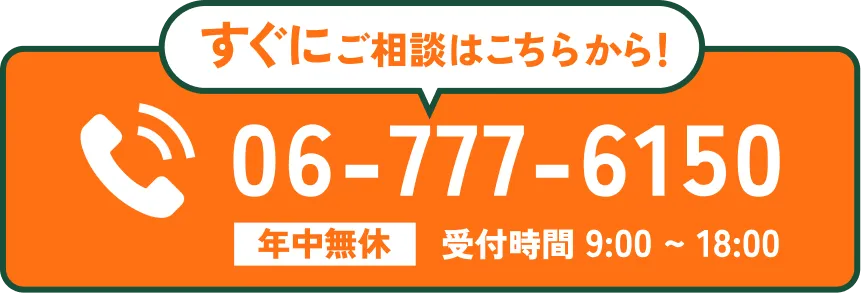
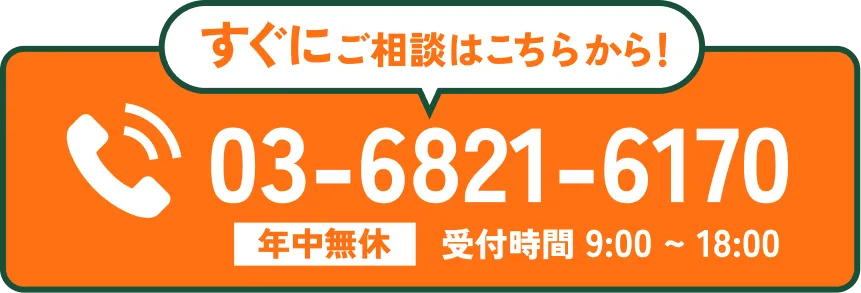
LP文言・画像を修正

Changed region(s): [[0.0604, 0.3379, 0.9361, 0.7679]]

diff --git a/index.html b/index.html
@@ -3,7 +3,7 @@
 <head>
     <meta charset="UTF-8">
     <meta name="viewport" content="width=device-width, initial-scale=1.0">
-    <title>〇〇｜関西で高額買取！出張買取専門</title>
+    <title>出張買取エコシカ｜関東で高額買取！出張買取専門</title>
     <link rel="stylesheet" href="css/style.css">
     <link rel="preconnect" href="https://fonts.googleapis.com">
     <link rel="preconnect" href="https://fonts.gstatic.com" crossorigin>
@@ -16,10 +16,10 @@
         ---------------------------->
         <div class="header">
             <div class="header_left">
-                <a href="/"><img src="./images/head_logo.webp" alt="全部買取対応｜出張費・査定費0円の無料買取サービス【30％UPキャンペーン中】"></a>
+                <a href="/"><img src="./images/ecoshika-logo.webp" alt="全部買取対応｜出張費・査定費0円の無料買取サービス【30％UPキャンペーン中】"></a>
             </div><!-- / .header_left -->
             <div class="header_right">
-                <a href="tel:ダミー" class="tel"><img src="./images/head_tel.webp" alt="電話で問い合わせ"></a>
+                <a href="tel:03-6821-6170" class="tel"><img src="./images/head_tel.webp" alt="電話で問い合わせ"></a>
                 <a href="https://lin.ee/ダミー" class="line"><img src="./images/head_line.webp" alt="LINEで査定"></a>
             </div>
         </div>
@@ -118,7 +118,7 @@
 
             <!-- タイトル画像 -->
             <div class="problem-coupon-title mt-20">
-                <h2><img src="./images/problem_fukidashi.webp" alt="そんなお悩みの方には〇〇にすべてお任せ！"></h2>
+                <h2><img src="./images/problem_fukidashi.webp" alt="そんなお悩みの方には出張買取エコシカにすべてお任せ！"></h2>
             </div>
             <div class="coupon">
                 <img src="./images/problem_cupon.webp" alt="WEB限定キャンペーン｜このページを見た！で査定額より30％UP">
@@ -182,7 +182,7 @@
                 <!-- CTAボタン -->
                 <div class="ctas">
                     <div class="ctas-item mb-14">
-                        <a href="tel:ダミー" class="tel"><img src="./images/cta_tel.webp" alt="すぐにご相談はこちらから！電話で問い合わせ"></a>
+                        <a href="tel:03-6821-6170" class="tel"><img src="./images/cta_tel.webp" alt="すぐにご相談はこちらから！電話で問い合わせ"></a>
                     </div>
                     <div class="ctas-item">
                         <a href="tel:ダミー" class="line"><img src="./images/cta_line.webp" alt="24時間365日受付｜lineで予約受付"></a>
@@ -200,6 +200,10 @@
         <section class="point p-20 py-40">
             <!-- お悩み一覧 -->
             <div class="points">
+                <!-- タイトル画像 -->
+                <div class="point-title mb-20 t_center">
+                    <h2><img src="./images/point_title.webp" alt="出張買取エコシカが選ばれる5つの理由"></h2>
+                </div>
                 <div class="points-item mt-20">
                     <img src="./images/point_01.webp" alt="追加料金ゼロ！完全無料サービス">
                     <p class="point-text">
@@ -258,7 +262,7 @@
                 <!-- CTAボタン -->
                 <div class="ctas">
                     <div class="ctas-item mb-14">
-                        <a href="tel:ダミー" class="tel"><img src="./images/cta_tel.webp" alt="すぐにご相談はこちらから！電話で問い合わせ"></a>
+                        <a href="tel:03-6821-6170" class="tel"><img src="./images/cta_tel.webp" alt="すぐにご相談はこちらから！電話で問い合わせ"></a>
                     </div>
                     <div class="ctas-item">
                         <a href="tel:ダミー" class="line"><img src="./images/cta_line.webp" alt="24時間365日受付｜lineで予約受付"></a>
@@ -488,7 +492,7 @@
                 <!-- CTAボタン -->
                 <div class="ctas">
                     <div class="ctas-item mb-14">
-                        <a href="tel:ダミー" class="tel"><img src="./images/cta_tel.webp" alt="すぐにご相談はこちらから！電話で問い合わせ"></a>
+                        <a href="tel:03-6821-6170" class="tel"><img src="./images/cta_tel.webp" alt="すぐにご相談はこちらから！電話で問い合わせ"></a>
                     </div>
                     <div class="ctas-item">
                         <a href="tel:ダミー" class="line"><img src="./images/cta_line.webp" alt="24時間365日受付｜lineで予約受付"></a>
@@ -510,7 +514,7 @@
                 <!-- cta-fixedボタン -->
                 <div class="cta-fixeds">
                     <div class="cta-fixeds-item">
-                        <a href="tel:ダミー" class="tel"><img src="../images/footer_tel.webp" alt="すぐにご相談はこちらから！電話で問い合わせ"></a>
+                        <a href="tel:03-6821-6170" class="tel"><img src="../images/footer_tel.webp" alt="すぐにご相談はこちらから！電話で問い合わせ"></a>
                     </div>
                     <div class="cta-fixeds-item">
                         <a href="tel:ダミー" class="line"><img src="../images/footer_line.webp" alt="24時間365日受付｜lineで予約受付"></a>

diff --git a/css/style.css b/css/style.css
@@ -539,6 +539,10 @@ CTA
   align-items: end;
 }
 
+.cta-fixeds-item{
+  width: 50%;
+}
+
 .cta-fixed-title{
 padding: 10px 20px 0px;
 }
